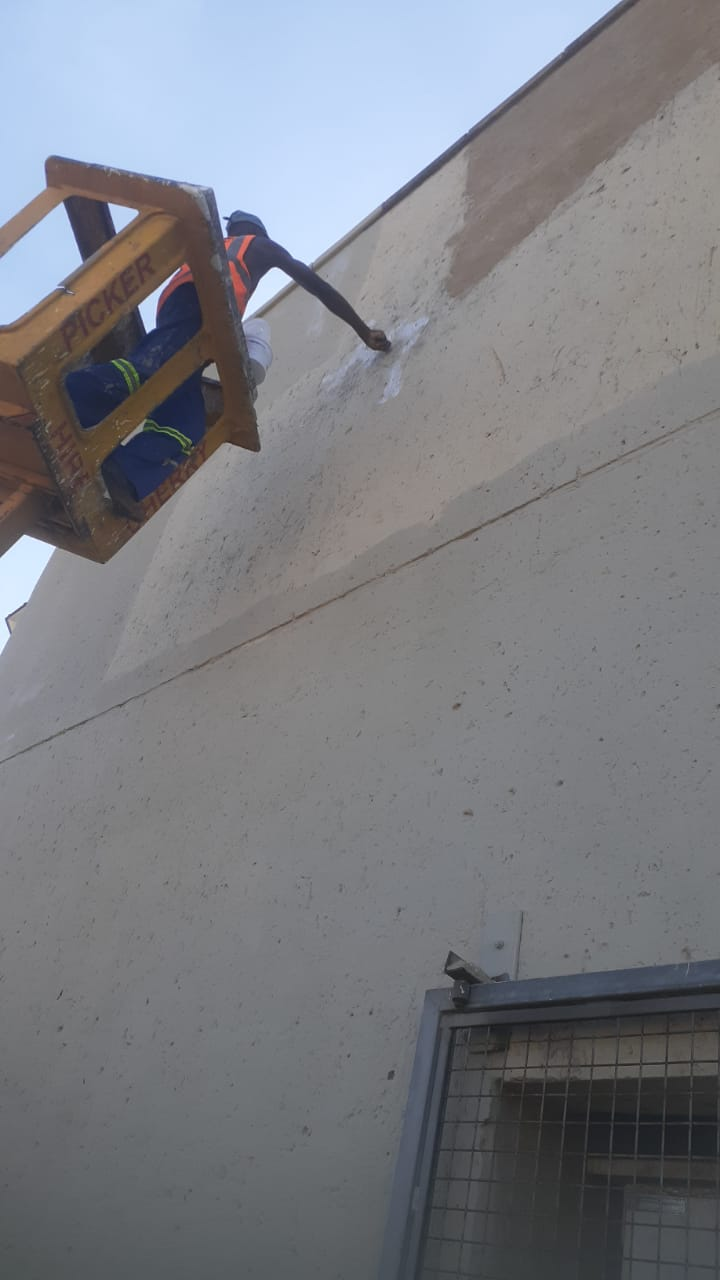
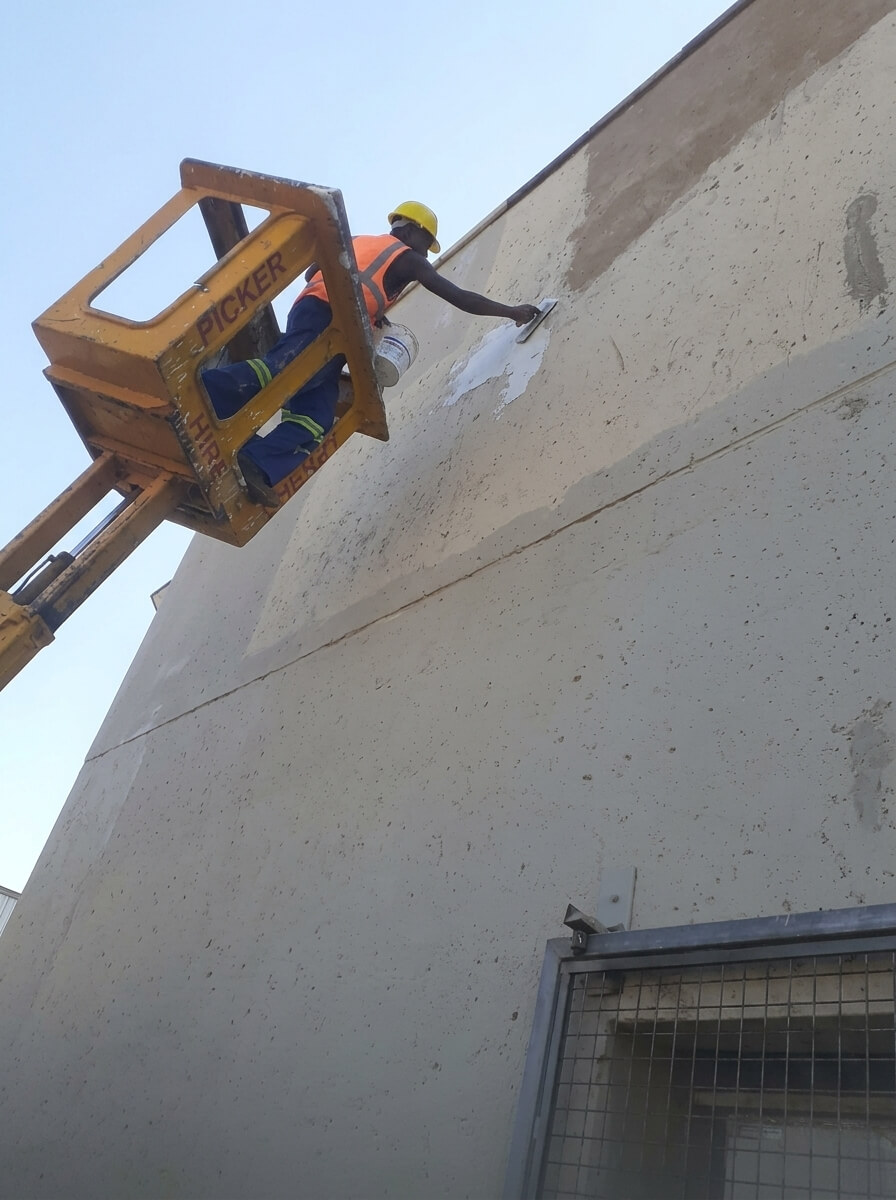
feat: add civil and building project configuration files and supporting imagery

diff --git a/services.html b/services.html
@@ -234,7 +234,7 @@
                 <div class="service-img-wrap">
                     <a href="projects.html?filter=electrical" title="View Electrical Engineering Projects">
                         <img src="images/projects/buildingconstruction/high-mast-electrical-1.jpeg"
-                            alt="High-mast electrical works using a cherry picker.">
+                            alt="High-mast electrical works and lighting maintenance using a cherry picker with safety helmet PPE.">
                     </a>
                     <div class="service-title-overlay">
                         <span class="service-badge">Sector 06</span>
